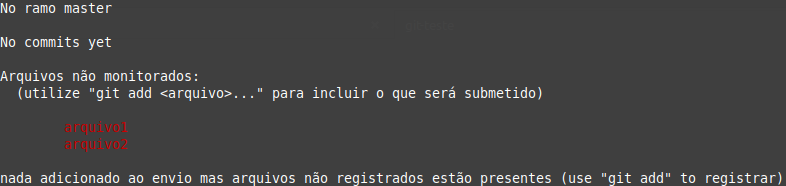
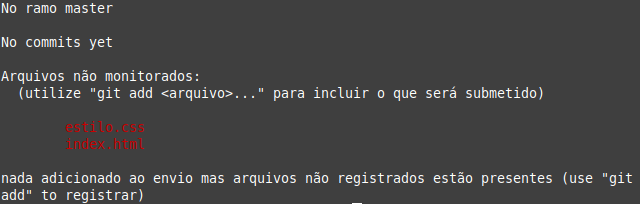
upgrade

diff --git a/git/p0002_add.md b/git/p0002_add.md
@@ -1,80 +1,113 @@
 # git add: Adicionando arquivos no Git
 
+
+## Iniciando o Git
+
 Entre na pasta a qual você pretende fazer o versionamento e no terminal digite:
 
 ```
 $ git init
 ```
 
+Para inicializar o **Git**, caso ainda não o tenha feito.
+
 - o símbolo **$** indica que você deve usar o **usuário comum** para fazer essa operação.
 
 Desse modo a pasta **.git** será criada. É essa pasta que armazenará as imagens das versões do projetos criados.
 
-Para saber o estado atual do git, basta digitar:
+
+## Entendendo o fluxo do Git
+
+A partir daqui, vamos entender o fluxo do Git.
+
+- **Working directory**: é onde estão seus arquivos que serão trabalhados. Aqui ficam os arquivos que ainda não receberam o comando *commit*.
+
+- **Index** ou **Staging area**: é a sala de espera do Git. É aqui que ficam os arquivos que já receberam o comando *commit*.
+
+- **Repositório**: é onde são guardados os seus *commits*.
+
+![fluxo git](img/p0002-0.png)
+
+
+## Git status
+
+Vamos supor que o diretório está vazio. Então vamos verificar o estado atual do **git**. Assim:
 
 ```
 $ git status
 ```
 
-O retorno do terminal será:
+O retorno do terminal será algo semelhante a:
 
-![retorno git status](img/p0002-0.png)
+![retorno git status](img/p0002-1.png)
 
-No fluxo do git, temos:
-
-![fluxo inicial do git](img/p0002-1.png)
-
-Vamos criar alguns arquivos para teste:
+Agora vamos criar dois arquivos nesse diretório:
 
 ```
-$ touch arquivo1 arquivo2
+$ touch index.html estilo.css
 ```
 
 - o comando **touch** serve para criar arquivos no Linux.
 
-Digitando novamente o git status, temos:
+Digitando novamente o comando ```git status```, temos:
 
-![arquivos não monitorados](img/p0002-2.png)
+![arquivos ainda não monitorados](img/p0002-2.png)
 
-No fluxo do git, temos: 
+Esses dois arquivos ainda não estão sendo monitorados pelo **git**.
 
-![working directory com dois arquivos](img/p0002-3.png)
+No fluxo do git, temos:
 
-Para adicionar os dois arquivos fazemos
+![fluxo inicial do git](img/p0002-3.png)
+
+Como podemos perceber, esses dois arquivos ainda não receberam o *commit*. Por isso eles estão no **working directory**.
+
+
+## Git add
+
+Para adicionar os dois arquivos, **um de cada vez**, digite:
 
 ```
-$ git add arquivo1
-$ git add arquivo2
+$ git add index.html
 ```
 
-Ou
-
 ```
-$ git add arquivo1 arquivo2
+$ git add estilo.css
 ```
 
-Para adicionar todos os arquivos do diretório
+Ou para adicionar ambos **ao mesmo tempo**,
+
+```
+$ git add index.html estilo.css
+```
+
+Caso queira adicionar **todos os arquivos de um diretório recursivamente**; o que inclui seus subdiretórios e arquivos ou pastas ocultas,
 
 ```
 $ git add .
 ```
 
-Para adicionar todos os arquivos de uma determinada extensão
+Para adicionar todos os arquivos de uma **determinada extensão**. 
 
 ```
 $ git add *.txt
 ```
 
-- supondo que a extensão aqui seja txt.
+- supondo que a extensão desejada seja **txt**.
 
-Verificando o estado do git, temos:
+Após incluir nossos arquivos, vamos verificar novamente o estado do **Git**.
+
+> É recomendável usar sempre o ```git status``` após cada comando do git para saber onde se está.
 
 ![arquivos monitorados](img/p0002-4.png)
 
-Aqui, estamos no **index (staging area)**. Algo como uma sala de espera do git.
+Observando o **fluxo** do git, temos:
 
 ![arquivos no index](img/p0002-5.png)
 
+Aqui, estamos no **index (staging area)**; a *"sala de espera"* do git.
+
 É a partir daqui que poderemos realizar o **commit**.
+
+![git add](img/p0002-6.png)
 
 tags: git, init, add, status
